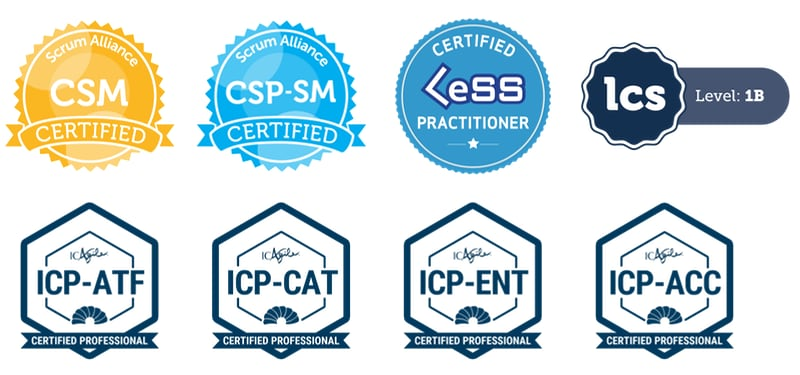
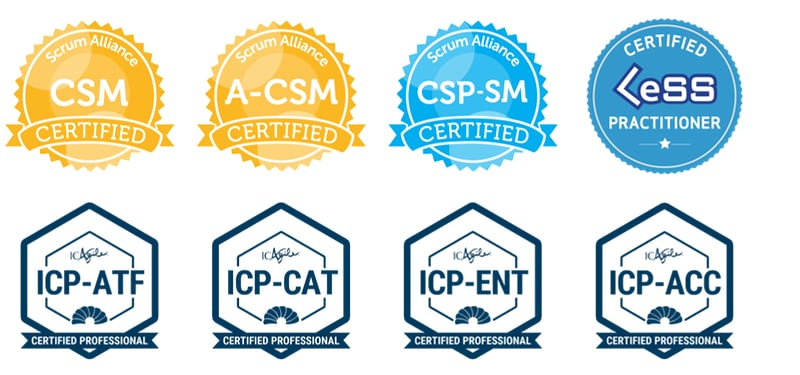
Adding A-CSM to certifications on about page

Changed region(s): [[0.25, 0.0293, 1.0, 0.4693]]

diff --git a/about-magnus-dahlgren.html b/about-magnus-dahlgren.html
@@ -96,8 +96,9 @@
 <h2>My qualifications</h2>
 <p><img alt="My certifications" src="about-certifications.jpg" /></p>
 <ul>
-<li><strong>Certified Scrum Master – CSM</strong> (I’ve held this certification longer than 95% of other CSMs) </li>
 <li><strong>Certified Scrum Professional – CSP-SM</strong> (only 1% of CSMs hold this certification) </li>
+<li><strong>Advanced Certified Scrum Master – A-CSM</strong></li>
+<li><strong>Certified Scrum Master – CSM</strong> (I’ve held this certification longer than 95% of other CSMs) </li>
 <li><strong>LeSS Practitioner</strong> – Large Scale Scrum</li>
 <li><strong>Coaching Agile Transitions</strong> – ICAgile Certified Professional – ICP-CAT</li>
 <li><strong>Agility in the Enterprise</strong> – ICAgile Certified Professional – ICP-ENT</li>
